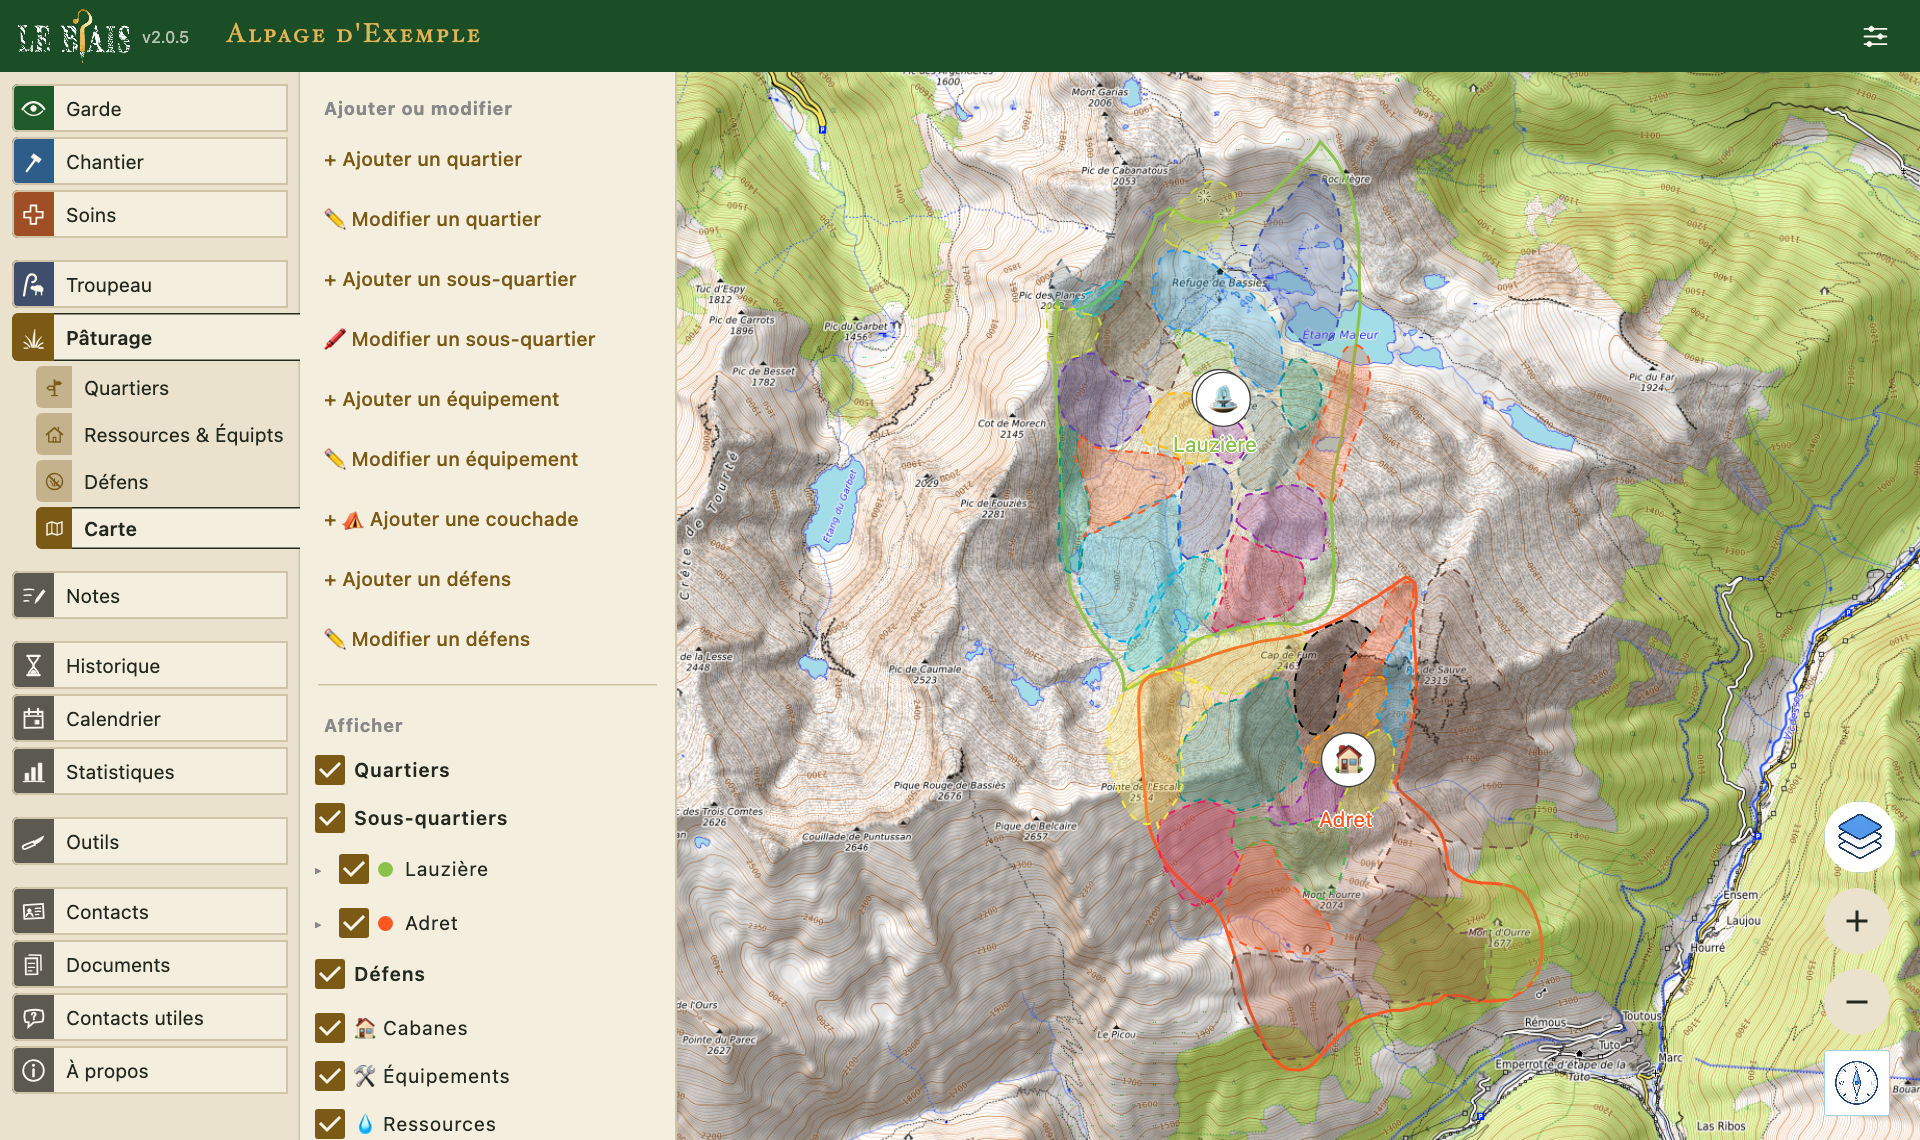
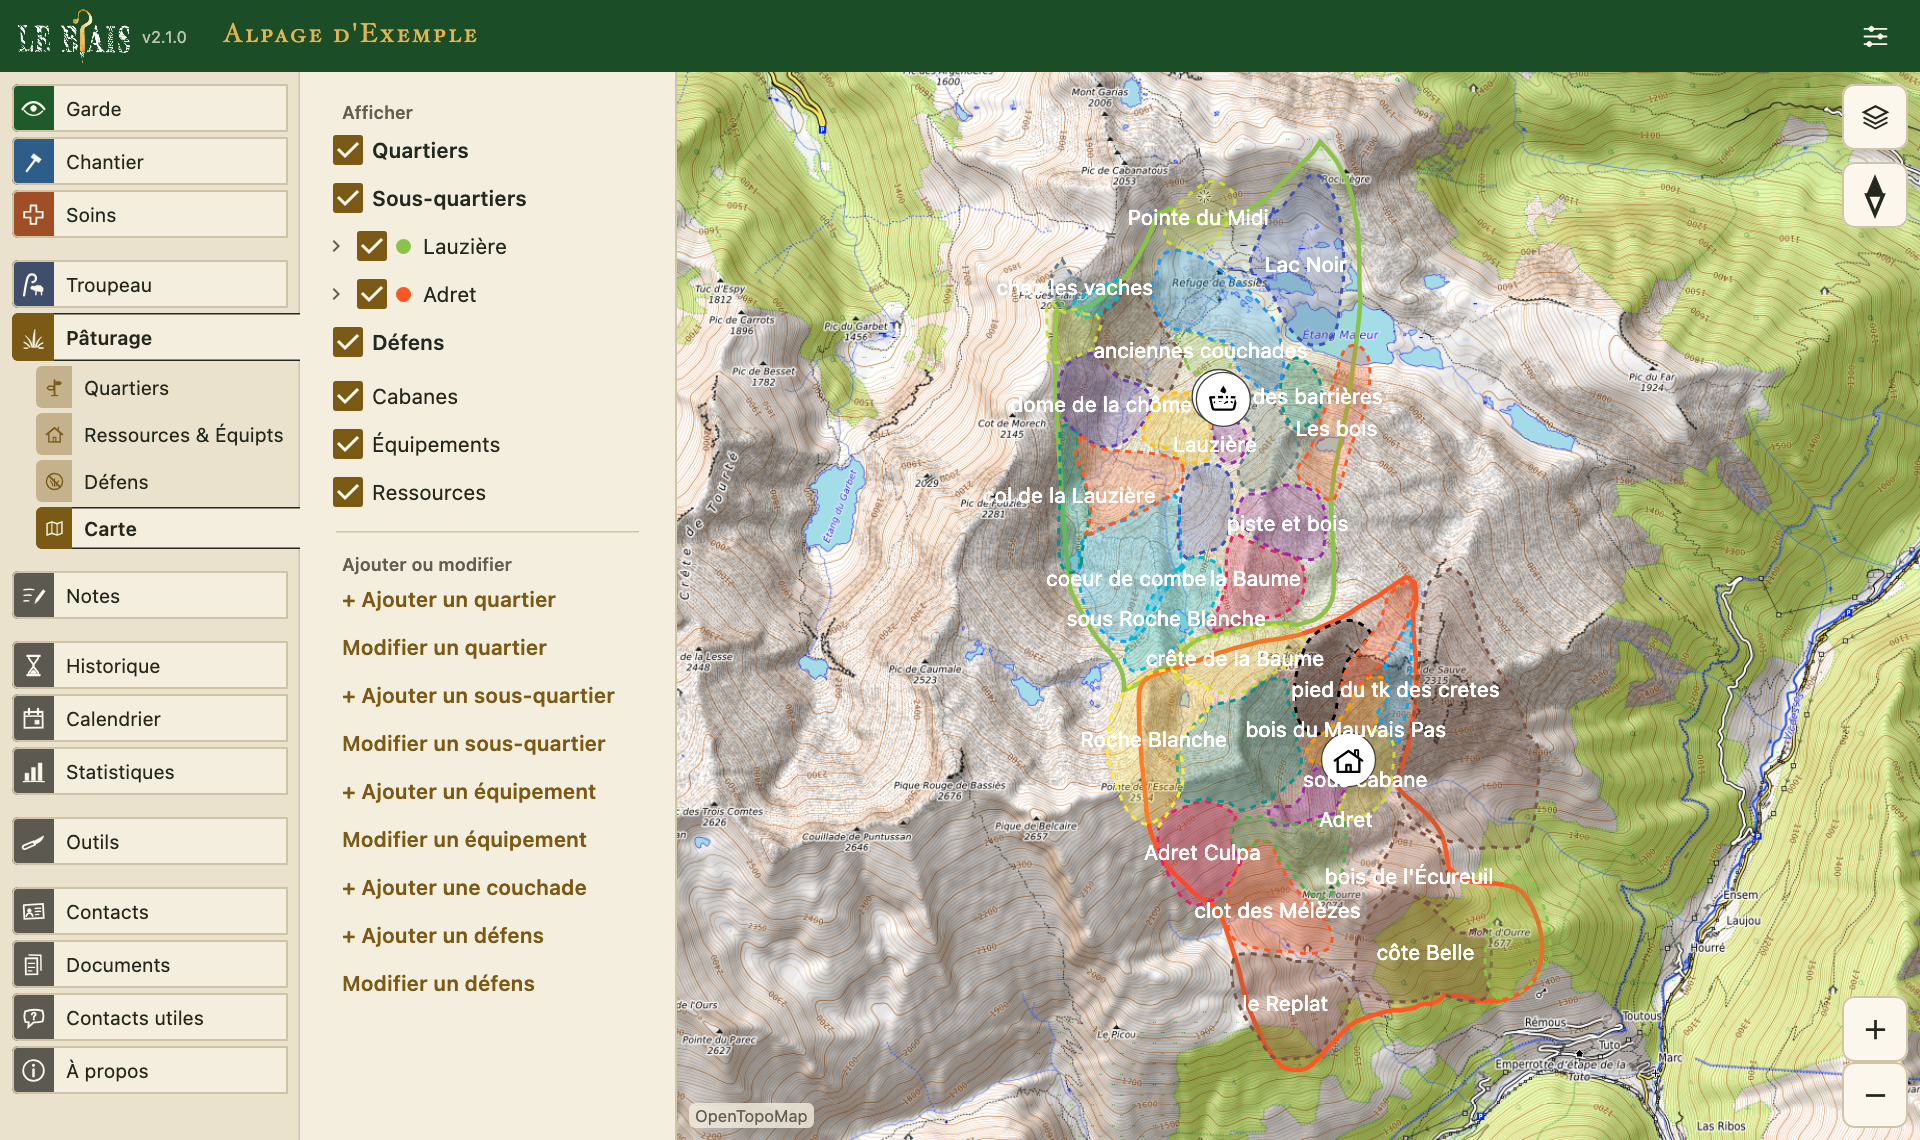
DOCS : la carte refondue
Captures régénérées (carte au téléphone et au poste, quartiers), page
Pâturage mise à jour : tiroir et volet, « me situer », fonds, hors ligne
depuis les réglages, mentions des sources.

diff --git a/paturage.html b/paturage.html
@@ -113,32 +113,45 @@
     <div class="tip"><p>Un défens ne déclenche aucune alerte quand un parcours de garde le traverse : c'est un repère sur la carte, pas un garde-fou.</p></div>
 
     <h2 id="carte">La carte</h2>
-    <p>La carte affiche les quartiers, sous-quartiers, <a href="#defens">défens</a>, cabanes, équipements et ressources ; une légende permet de masquer chaque famille. Sur le poste de bureau, elle liste aussi les défens un à un : une case masque une zone, un clic sur son nom cadre la carte dessus. Toucher un défens ouvre sa fiche.</p>
+    <p>La carte affiche les quartiers, sous-quartiers, <a href="#defens">défens</a>, cabanes, équipements et ressources, avec le nom des zones écrit dessus. Toucher un défens ouvre sa fiche.</p>
+    <p>Les réglages d'affichage et les ajouts se rangent à part de la carte, selon l'écran :</p>
+    <ul>
+        <li><strong>au téléphone</strong> (et sur une tablette tenue debout), un <strong>tiroir</strong> se tire du bas de l'écran. Il a trois hauteurs : fermé, il ne montre que sa tête (« 2 quartiers · 1 défens ») ; à mi-hauteur, une ligne par quartier, avec sa case et son nombre de sous-quartiers ; ouvert, tout le contenu. Un toucher sur la tête passe à la hauteur suivante, et on peut aussi le tirer du doigt ;</li>
+        <li><strong>sur une tablette couchée et sur le poste de bureau</strong>, le même contenu s'affiche dans un <strong>volet</strong> à gauche de la carte.</li>
+    </ul>
+    <p>Le tiroir ou le volet porte la rubrique <span class="ui">Afficher</span> : une case par famille (quartiers, sous-quartiers, défens, cabanes, équipements, ressources), et, dépliés sous elle, les quartiers, leurs sous-quartiers et les défens un à un. Une case masque une zone, un clic sur son nom cadre la carte dessus. Plus bas, la rubrique <span class="ui">Ajouter ou modifier</span> lance les tracés (voir plus bas).</p>
 
     <figure class="captures">
-        <a class="bureau" href="captures/carte-bureau.png"><img src="captures/carte-bureau.png" alt="La carte sur le poste de bureau : contours des quartiers et sous-quartiers sur un fond topographique, actions et légende à gauche" width="1920" height="1140" loading="lazy"></a>
-        <figcaption>La carte du poste de bureau, ici sur le fond OpenTopoMap. Sur téléphone, l'écran est différent : la carte occupe tout l'écran.</figcaption>
+        <a class="telephone" href="captures/carte-telephone.png"><img src="captures/carte-telephone.png" alt="La carte sur téléphone : contours des quartiers sur un fond topographique, boutons des fonds, de la boussole et du zoom à droite, tiroir à mi-hauteur en bas" width="800" height="1680" loading="lazy"></a>
+        <a class="bureau" href="captures/carte-bureau.png"><img src="captures/carte-bureau.png" alt="La carte sur le poste de bureau : contours des quartiers et sous-quartiers sur un fond topographique, volet Afficher et Ajouter ou modifier à gauche" width="1920" height="1140" loading="lazy"></a>
+        <figcaption>La carte sur téléphone, le tiroir à mi-hauteur, puis sur le poste de bureau, où le même contenu occupe un volet. Fond OpenTopoMap, sur un alpage d'exemple.</figcaption>
     </figure>
 
+    <p>Quatre boutons de papier restent à leurs coins, quel que soit le mode : <span class="ui">Calques</span> (les fonds), la <strong>boussole</strong> (un toucher remet le nord en haut ; la glisser fait tourner la carte), <span class="ui">Zoomer</span> et <span class="ui">Dézoomer</span>. Au téléphone et à la tablette, un cinquième, <span class="ui">Me situer</span>, centre la carte sur votre position, relevée par le GPS : l'appareil demande l'autorisation la première fois. Le poste de bureau n'a pas de GPS, donc pas ce bouton.</p>
+    <p>En bas à gauche, une petite mention nomme les sources des fonds affichés (« © IGN · OpenTopoMap »).</p>
+
     <h3 id="carte-fonds">Fonds et calques</h3>
-    <p><span class="ui">Gestion des calques</span> superpose plusieurs fonds, chacun avec son opacité et son rang : OpenTopoMap, OpenStreetMap, IGN (carte topographique, plan, photographies aériennes, cadastre) et imagerie satellite Esri. Un cadastre à moitié transparent sur une photo aérienne, par exemple. Les calques choisis sont les mêmes dans l'outil <a href="outils.html#filets-calques">Combien de filets ?</a>.</p>
+    <p><span class="ui">Calques</span> ouvre les <span class="ui">Fonds de carte</span> : on y ajoute les fonds qu'on veut superposer, chacun avec son <strong>opacité</strong> et son rang (monter, descendre, supprimer). Sont proposés : OpenTopoMap, OpenStreetMap, IGN Plan, IGN Scan 25, IGN Satellite (photographies aériennes), IGN Cadastre et Esri Satellite. Un cadastre à moitié transparent sur une photo aérienne, par exemple. La mention de la source de chaque fond se lit sous son nom. Les calques choisis sont les mêmes dans l'outil <a href="outils.html#filets-calques">Combien de filets ?</a>.</p>
+    <p>Le cadastre se superpose aux autres fonds mais ne se télécharge pas : il ne s'affiche qu'avec du réseau, ou là où vous l'avez déjà regardé.</p>
 
     <h3 id="carte-tracer">Tracer</h3>
+    <p>Les actions de la rubrique <span class="ui">Ajouter ou modifier</span> :</p>
     <ul>
-        <li><strong>Ajouter / modifier un quartier ou un sous-quartier</strong> — le contour se dessine à main levée. <span class="ui">➕ Union</span> ajoute une zone au contour, <span class="ui">➖ Exclure</span> en retire une, <span class="ui">↩ Annuler dernier</span> revient d'un trait.</li>
+        <li><strong>Ajouter / modifier un quartier ou un sous-quartier</strong> — le contour se dessine à main levée. Pendant le tracé, une feuille d'outils s'ouvre : <span class="ui">Ajouter</span> une zone au contour ou <span class="ui">Retirer</span> une zone, <span class="ui">Dernier trait</span> pour revenir d'un trait, <span class="ui">Tout effacer</span>, puis <span class="ui">Valider le contour</span> ou <span class="ui">Annuler</span>. Un sous-quartier peut aussi se créer depuis une sélection de zones.</li>
         <li><strong>Ajouter / modifier un défens</strong> — le même tracé à main levée. À la validation d'un nouveau contour, la fiche s'ouvre pour saisir le nom, le motif et la période ; tant qu'elle n'est pas enregistrée, rien n'est créé.</li>
         <li><strong>Ajouter une couchade ou un équipement</strong> — un appui sur la carte le place.</li>
-        <li>Deux modes : <span class="ui">✏ Tracer</span> (un doigt dessine, deux doigts déplacent) et <span class="ui">🖐 Naviguer</span>. Sur poste de bureau : cliquer-glisser, molette pour zoomer, Maj + molette pour pivoter.</li>
+        <li>Deux modes de doigt : <span class="ui">Tracer</span> (un doigt dessine, deux doigts déplacent la carte) et <span class="ui">Naviguer</span> pour la déplacer sans dessiner. Sur poste de bureau : cliquer-glisser pour dessiner, <span class="ui">Naviguer</span> ou la barre d'espace enfoncée pour déplacer, molette pour zoomer.</li>
     </ul>
-    <p>Quitter un tracé en cours demande confirmation : rien ne se perd par un geste malheureux.</p>
+    <p>Pendant un tracé, le menu de gauche du poste ne répond plus ; quitter un tracé en cours demande confirmation : rien ne se perd par un geste malheureux.</p>
 
     <h3 id="carte-relecture">Relire la saison</h3>
     <p>Depuis l'onglet <span class="ui">Quartiers</span> des statistiques, <span class="ui">Voir sur la carte</span> rejoue la saison : jour après jour, les sous-quartiers pâturés s'allument, puis s'estompent. La vitesse et la durée du fondu se règlent.</p>
 
     <h2 id="horsligne">Cartes hors ligne</h2>
-    <p>Là-haut, pas de réseau : il faut emporter la carte. Dans les paramètres, <span class="ui">Cartes hors ligne</span> → <span class="ui">Rapatrier avant de monter</span> télécharge les tuiles qui couvrent <strong>vos quartiers</strong>, et seulement elles. L'écran annonce le nombre de tuiles et le poids avant de commencer.</p>
+    <p>Là-haut, pas de réseau : il faut emporter la carte. Dans les paramètres, <span class="ui">Cartes hors ligne</span> → <span class="ui">Rapatrier avant de monter</span> télécharge les tuiles qui couvrent <strong>vos quartiers</strong>, et seulement elles. Le choix des fonds à emporter se fait par une case à cocher : <strong>IGN Plan</strong>, <strong>IGN Satellite</strong> (l'orthophoto) et <strong>OpenTopoMap</strong>. L'écran annonce le nombre de tuiles et le poids avant de commencer, et sous chaque fond la mention de sa source.</p>
     <p>La ligne <span class="ui">Altitude (pour Combien de filets ?)</span> est cochée par défaut : elle emporte aussi les tuiles d'altitude des quartiers, que l'outil <a href="outils.html#filets-altitude">Combien de filets ?</a> utilise pour tenir compte de la pente sans réseau. Leur source (Terrain Tiles : Mapzen/Tilezen, SRTM et autres sources ouvertes, AWS Open Data) est créditée sur l'écran.</p>
-    <div class="warn"><p>Tracez d'abord vos quartiers : sans contour, il n'y a pas de zone à emporter. Certains fonds, tenus par des bénévoles, interdisent le téléchargement en masse : ils restent consultables hors ligne là où vous êtes déjà passé, car l'application garde ce qu'elle a affiché.</p></div>
+    <p>Ce choix est propre à l'appareil : il ne part pas avec le projet, et le binôme qui le partage n'emporte pas forcément les mêmes fonds. L'écran dit aussi le poids des tuiles gardées, et permet de les <span class="ui">Vider</span>.</p>
+    <div class="warn"><p>Tracez d'abord vos quartiers : sans contour, il n'y a pas de zone à emporter. Le <strong>Scan 25</strong> de l'IGN, le cadastre, OpenStreetMap et Esri Satellite ne se téléchargent pas d'avance : leur licence ou la politique de leur serveur ne l'admet pas. Ils s'affichent avec du réseau, et restent consultables hors ligne là où vous êtes déjà passé, car l'application garde ce qu'elle a affiché.</p></div>
 
     <div class="pager">
         <span><a href="soins.html">← Soins</a></span>
